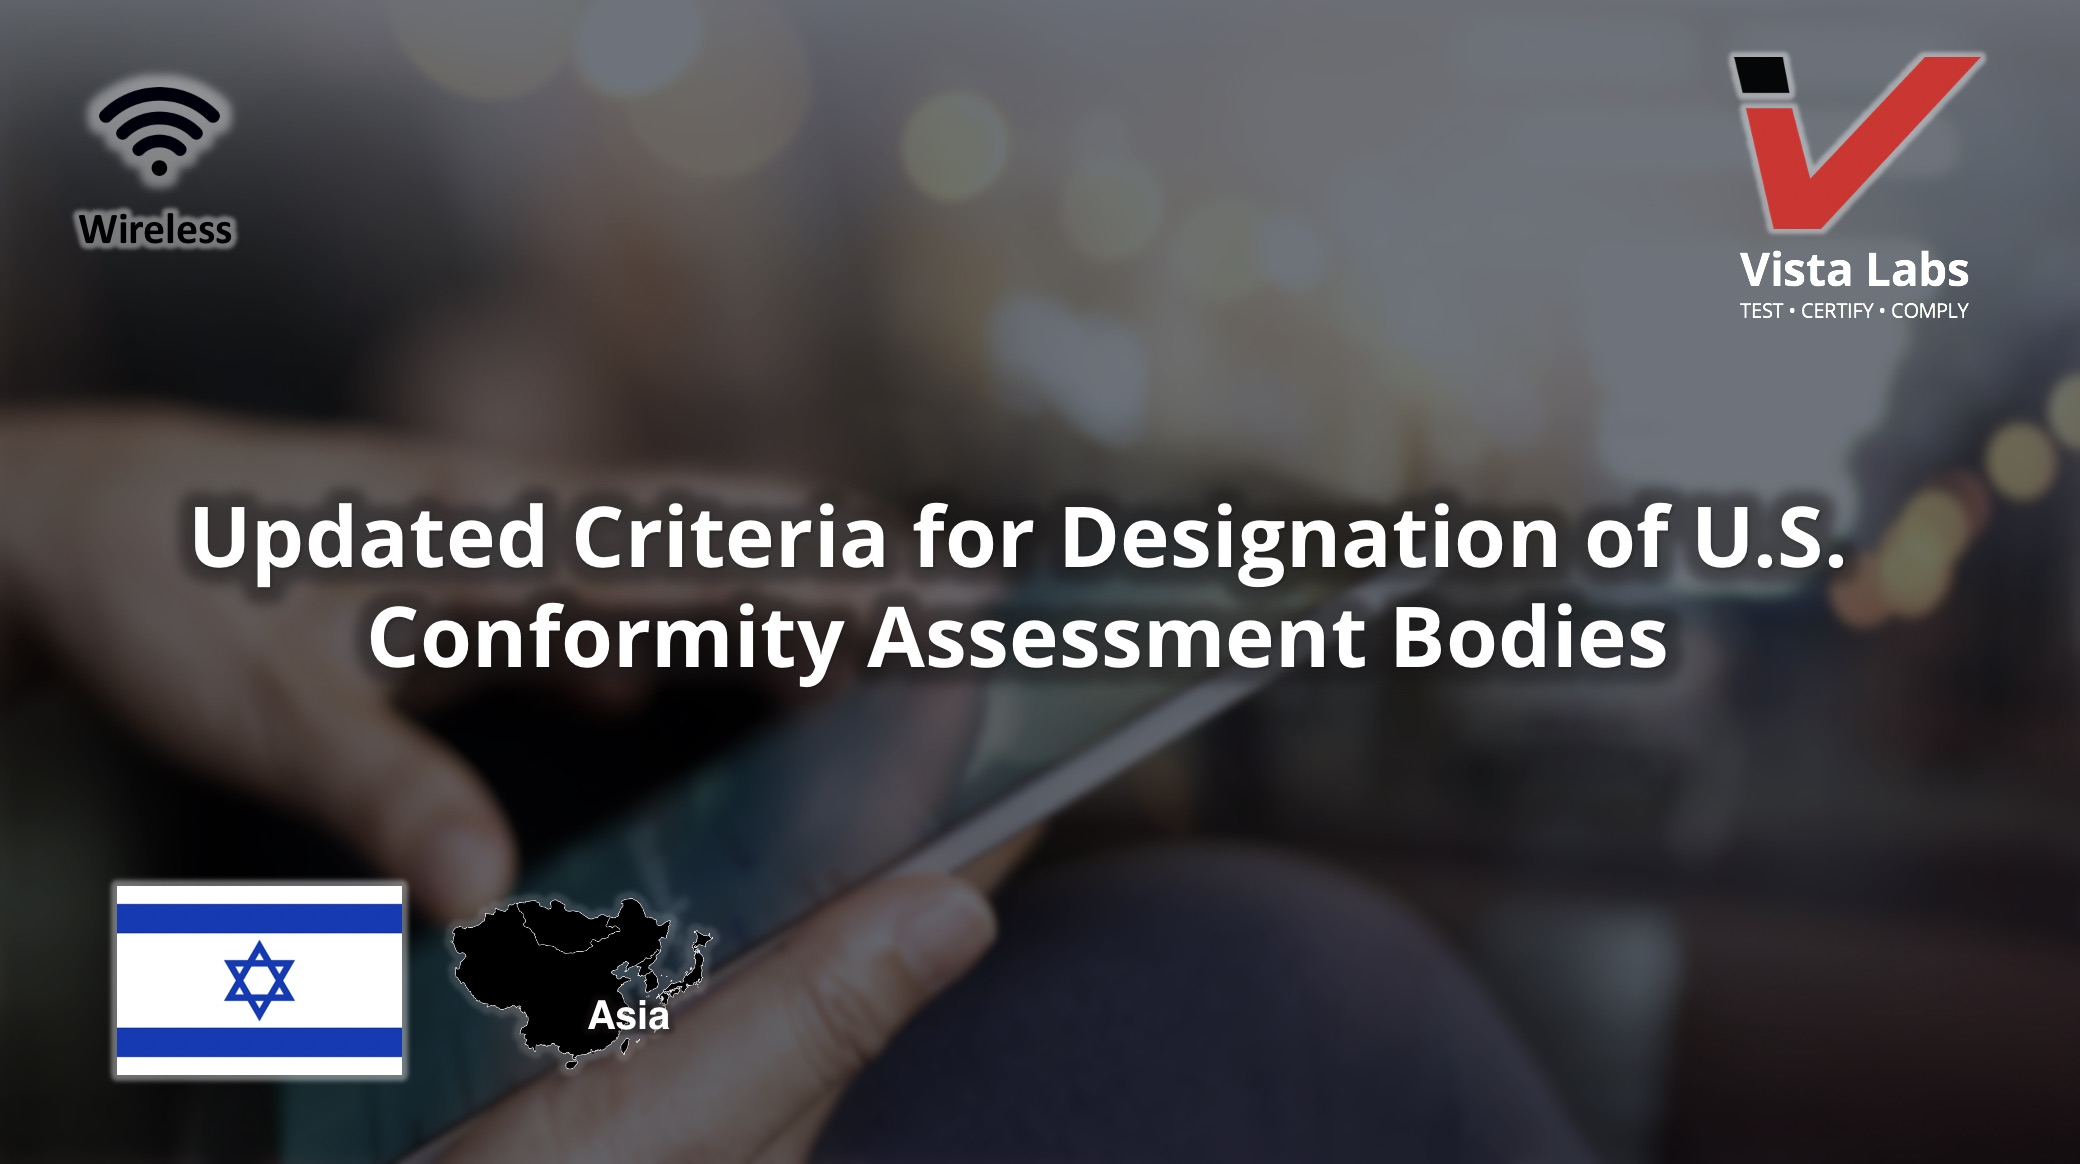
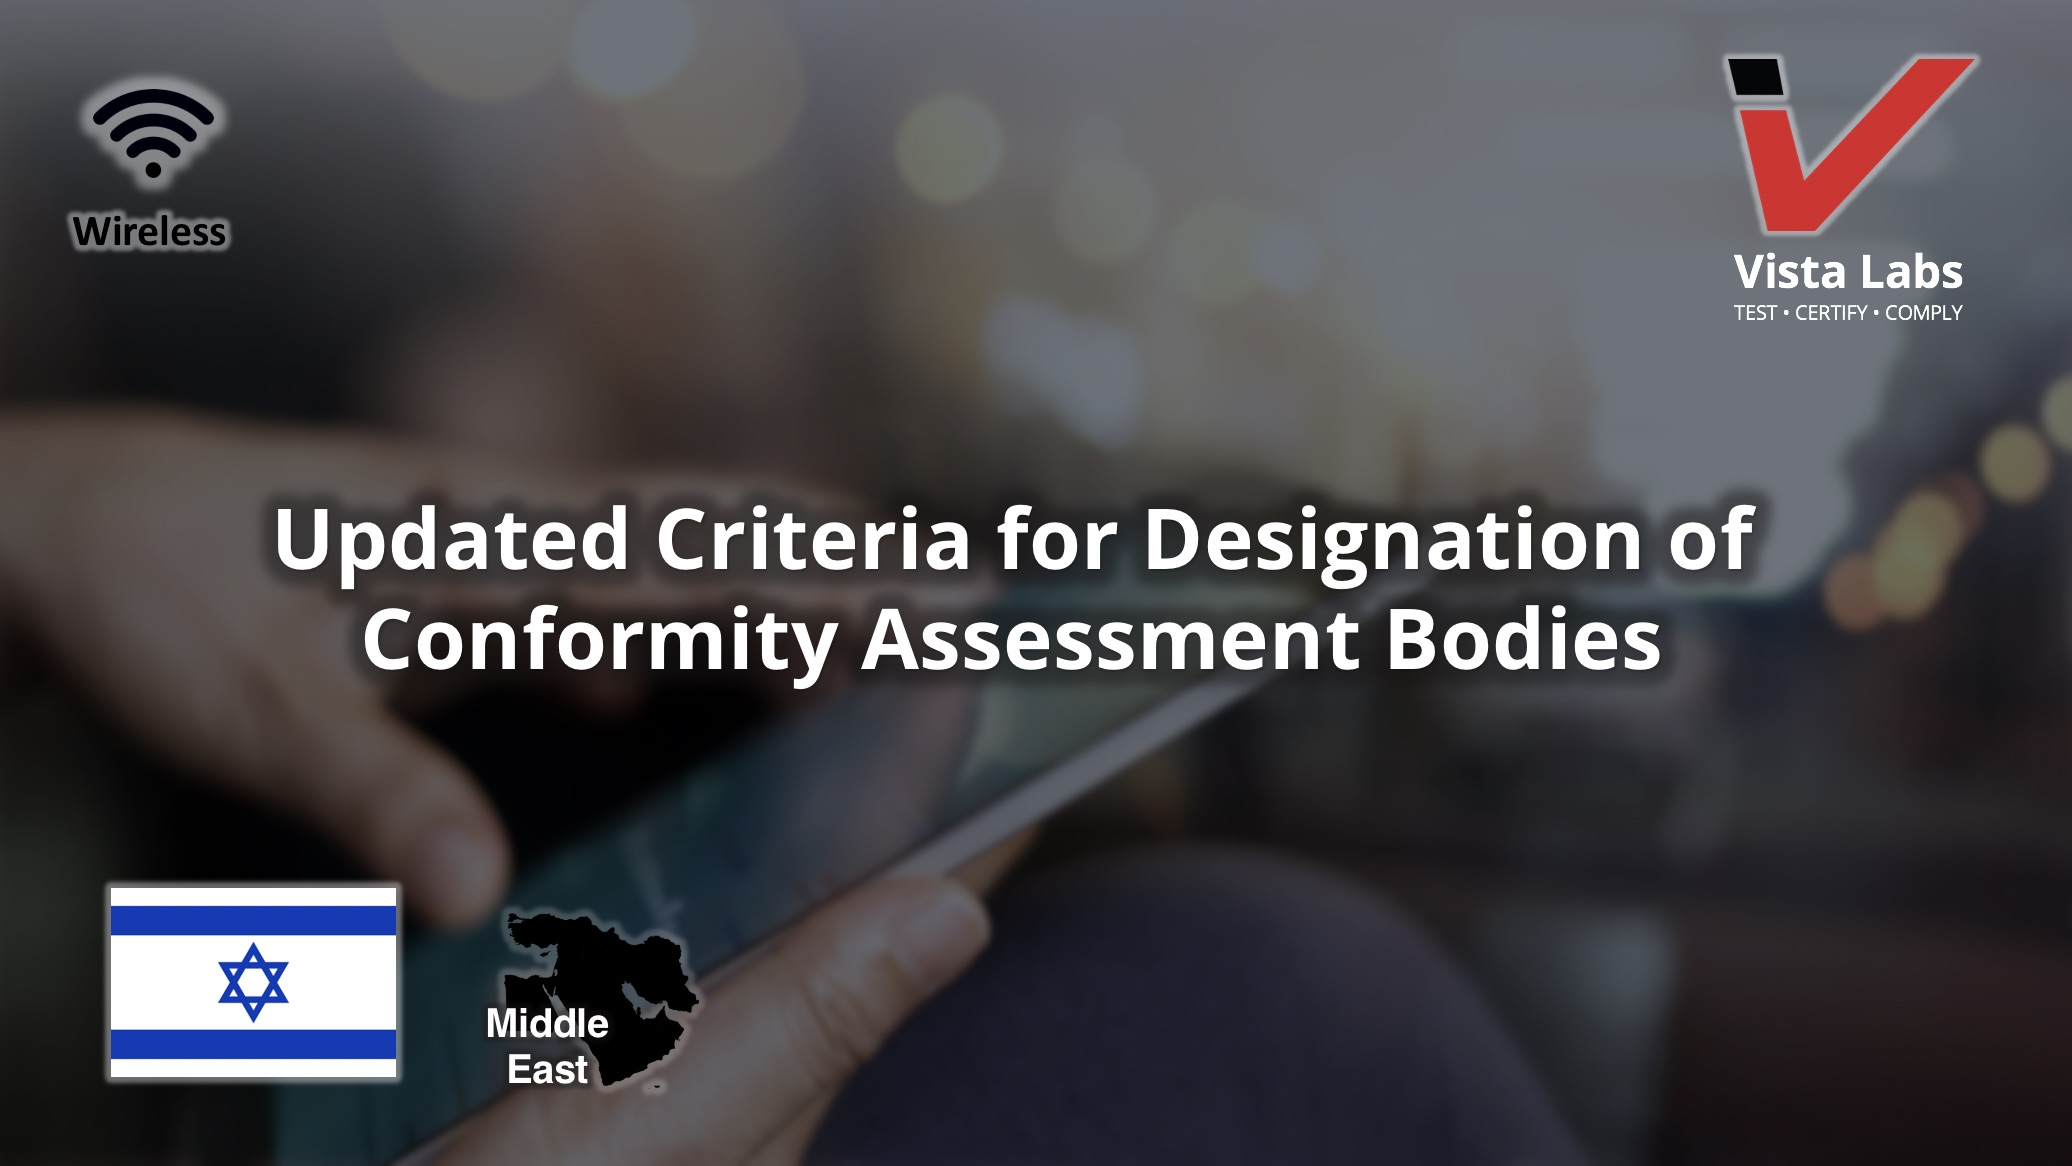
updating weekly newspost/letter

diff --git a/news/newsletters/2021/210211/index.html b/news/newsletters/2021/210211/index.html
@@ -169,10 +169,10 @@
   </table><table class="module" role="module" data-type="text" border="0" cellpadding="0" cellspacing="0" width="100%" style="table-layout: fixed;" data-muid="8a59d782-c459-45c1-a7b4-66ebb1f0abb1" data-mc-module-version="2019-10-22">
     <tbody>
       <tr>
-        <td style="padding:22px 20px 22px 20px; line-height:22px; text-align:inherit; background-color:#ffffff;" height="100%" valign="top" bgcolor="#ffffff" role="module-content"><div><div style="font-family: inherit; text-align: center"><span style="color: #444444; font-size: 20px"><strong>Update of Technical Regulations for</strong></span></div>
-<div style="font-family: inherit; text-align: center"><span style="color: #444444; font-size: 20px"><strong>Land Mobile User Equipment</strong></span></div>
+        <td style="padding:22px 20px 22px 20px; line-height:22px; text-align:inherit; background-color:#ffffff;" height="100%" valign="top" bgcolor="#ffffff" role="module-content"><div><div style="font-family: inherit; text-align: center"><span style="color: #444444; font-size: 20px"><strong>New Term Assignment of Spectrum</strong></span></div>
+<div style="font-family: inherit; text-align: center"><span style="color: #444444; font-size: 20px"><strong>In the 900 MHz Band</strong></span></div>
 <div style="font-family: inherit; text-align: center"><br></div>
-<div style="font-family: inherit; text-align: center"><span style="color: #6e7889; font-family: &quot;Open Sans&quot;, &quot;Helvetica Neue&quot;, Helvetica, Arial, sans-serif; font-size: 16px; font-style: normal; font-variant-ligatures: normal; font-variant-caps: normal; font-weight: 400; letter-spacing: normal; orphans: 2; text-align: left; text-indent: 0px; text-transform: none; white-space: normal; widows: 2; word-spacing: 0px; -webkit-text-stroke-width: 0px; background-color: rgb(255, 255, 255); text-decoration-thickness: initial; text-decoration-style: initial; text-decoration-color: initial; float: none; display: inline">Vietnam Ministry of Infomation and Communications (MIC) has issued an update of Technical Regulations for Land Mobile User Equipment - Radio Access QCVN 117:2020</span><span style="font-family: &quot;Open Sans&quot;, &quot;Helvetica Neue&quot;, Helvetica, Arial, sans-serif; font-size: 16px; font-style: normal; font-variant-ligatures: normal; font-variant-caps: normal; font-weight: 400; letter-spacing: normal; orphans: 2; text-align: left; text-indent: 0px; text-transform: none; white-space: normal; widows: 2; word-spacing: 0px; -webkit-text-stroke-width: 0px; background-color: rgb(255, 255, 255); text-decoration-thickness: initial; text-decoration-style: initial; text-decoration-color: initial; float: none; display: inline; color: #6e7889">/BTTTTmilar equipment as well as IT equipment.</span><br>
+<div style="font-family: inherit; text-align: center"><span style="font-family: &quot;Open Sans&quot;, &quot;Helvetica Neue&quot;, Helvetica, Arial, sans-serif; font-size: 16px; font-style: normal; font-variant-ligatures: normal; font-variant-caps: normal; font-weight: 400; letter-spacing: normal; orphans: 2; text-align: left; text-indent: 0px; text-transform: none; white-space: normal; widows: 2; word-spacing: 0px; -webkit-text-stroke-width: 0px; background-color: rgb(255, 255, 255); text-decoration-thickness: initial; text-decoration-style: initial; text-decoration-color: initial; float: none; display: inline; color: #999999">The Office of the Communications Authority (“OFCA”) announces that spectrum handover among mobile network operators (“MNOs”) was successfully completed on 12 January 2021.</span><br>
 </div><div></div></div></td>
       </tr>
     </tbody>
@@ -204,13 +204,13 @@
       <tr>
         <td style="font-size:6px; line-height:10px; padding:0px 0px 0px 0px;" valign="top" align="center">
           
-        <a href="https://www.vista-compliance.com/news/newsposts/2021/newspost210209" target="_blank"><img class="max-width" border="0" style="display:block; color:#000000; text-decoration:none; font-family:Helvetica, arial, sans-serif; font-size:16px; max-width:100% !important; width:100%; height:auto !important;" width="600" alt="" data-proportionally-constrained="true" data-responsive="true" src="./2080x1164(1).jpg"></a></td>
+        <a href="https://www.vista-compliance.com/news/newsposts/2021/newspost210209" target="_blank"><img class="max-width" border="0" style="display:block; color:#000000; text-decoration:none; font-family:Helvetica, arial, sans-serif; font-size:16px; max-width:100% !important; width:100%; height:auto !important;" width="600" alt="" data-proportionally-constrained="true" data-responsive="true" src="./2072x1166.jpg"></a></td>
       </tr>
     </tbody>
   </table><table class="module" role="module" data-type="text" border="0" cellpadding="0" cellspacing="0" width="100%" style="table-layout: fixed;" data-muid="8a59d782-c459-45c1-a7b4-66ebb1f0abb1.1" data-mc-module-version="2019-10-22">
     <tbody>
       <tr>
-        <td style="padding:22px 20px 22px 20px; line-height:22px; text-align:inherit; background-color:#ffffff;" height="100%" valign="top" bgcolor="#ffffff" role="module-content"><div><div style="font-family: inherit; text-align: center"><span style="font-family: &quot;Open Sans&quot;, Helvetica, Arial, sans-serif; font-style: normal; font-variant-ligatures: normal; font-variant-caps: normal; letter-spacing: normal; orphans: 2; text-align: -webkit-center; text-indent: 0px; text-transform: none; white-space: normal; widows: 2; word-spacing: 0px; -webkit-text-stroke-width: 0px; background-color: rgb(255, 255, 255); text-decoration-style: initial; text-decoration-color: initial; font-size: 20px; color: #444444; margin-top: 0px; margin-right: 0px; margin-bottom: 0px; margin-left: 0px; padding-bottom: 10px"><strong>Updated Criteria for Designation of U.S.</strong></span></div>
+        <td style="padding:22px 20px 22px 20px; line-height:22px; text-align:inherit; background-color:#ffffff;" height="100%" valign="top" bgcolor="#ffffff" role="module-content"><div><div style="font-family: inherit; text-align: center"><span style="font-family: &quot;Open Sans&quot;, Helvetica, Arial, sans-serif; font-style: normal; font-variant-ligatures: normal; font-variant-caps: normal; letter-spacing: normal; orphans: 2; text-align: -webkit-center; text-indent: 0px; text-transform: none; white-space: normal; widows: 2; word-spacing: 0px; -webkit-text-stroke-width: 0px; background-color: rgb(255, 255, 255); text-decoration-style: initial; text-decoration-color: initial; font-size: 20px; color: #444444; margin-top: 0px; margin-right: 0px; margin-bottom: 0px; margin-left: 0px; padding-bottom: 10px"><strong>Updated Criteria for Designation of&nbsp;</strong></span></div>
 <div style="font-family: inherit; text-align: center"><span style="font-family: &quot;Open Sans&quot;, Helvetica, Arial, sans-serif; font-style: normal; font-variant-ligatures: normal; font-variant-caps: normal; letter-spacing: normal; orphans: 2; text-align: -webkit-center; text-indent: 0px; text-transform: none; white-space: normal; widows: 2; word-spacing: 0px; -webkit-text-stroke-width: 0px; background-color: rgb(255, 255, 255); text-decoration-style: initial; text-decoration-color: initial; font-size: 20px; color: #444444; margin-top: 0px; margin-right: 0px; margin-bottom: 0px; margin-left: 0px; padding-bottom: 10px"><strong>Conformity Assessment Bodies&nbsp;</strong></span></div>
 <div style="font-family: inherit; text-align: center"><br></div>
 <div style="font-family: inherit; text-align: center"><span style="color: #6e7889; font-family: &quot;Open Sans&quot;, &quot;Helvetica Neue&quot;, Helvetica, Arial, sans-serif; font-size: 16px; font-style: normal; font-variant-ligatures: normal; font-variant-caps: normal; font-weight: 400; letter-spacing: normal; orphans: 2; text-align: left; text-indent: 0px; text-transform: none; white-space: normal; widows: 2; word-spacing: 0px; -webkit-text-stroke-width: 0px; background-color: rgb(255, 255, 255); text-decoration-thickness: initial; text-decoration-style: initial; text-decoration-color: initial; float: none; display: inline">The Mutual Recognition Agreement between the Government of the United States and the Government of the State of Israel has been updated.</span><span style="color: #999999"><br>
